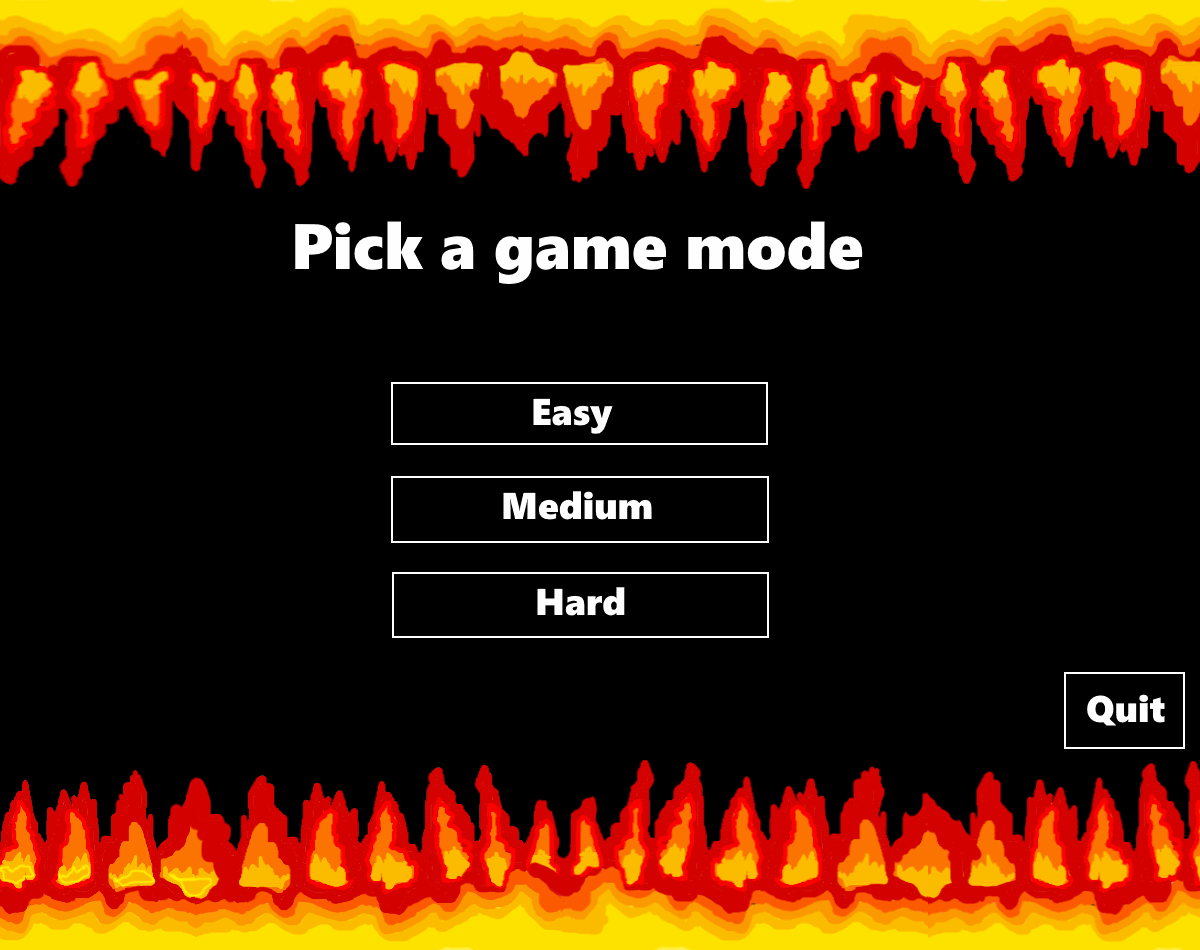
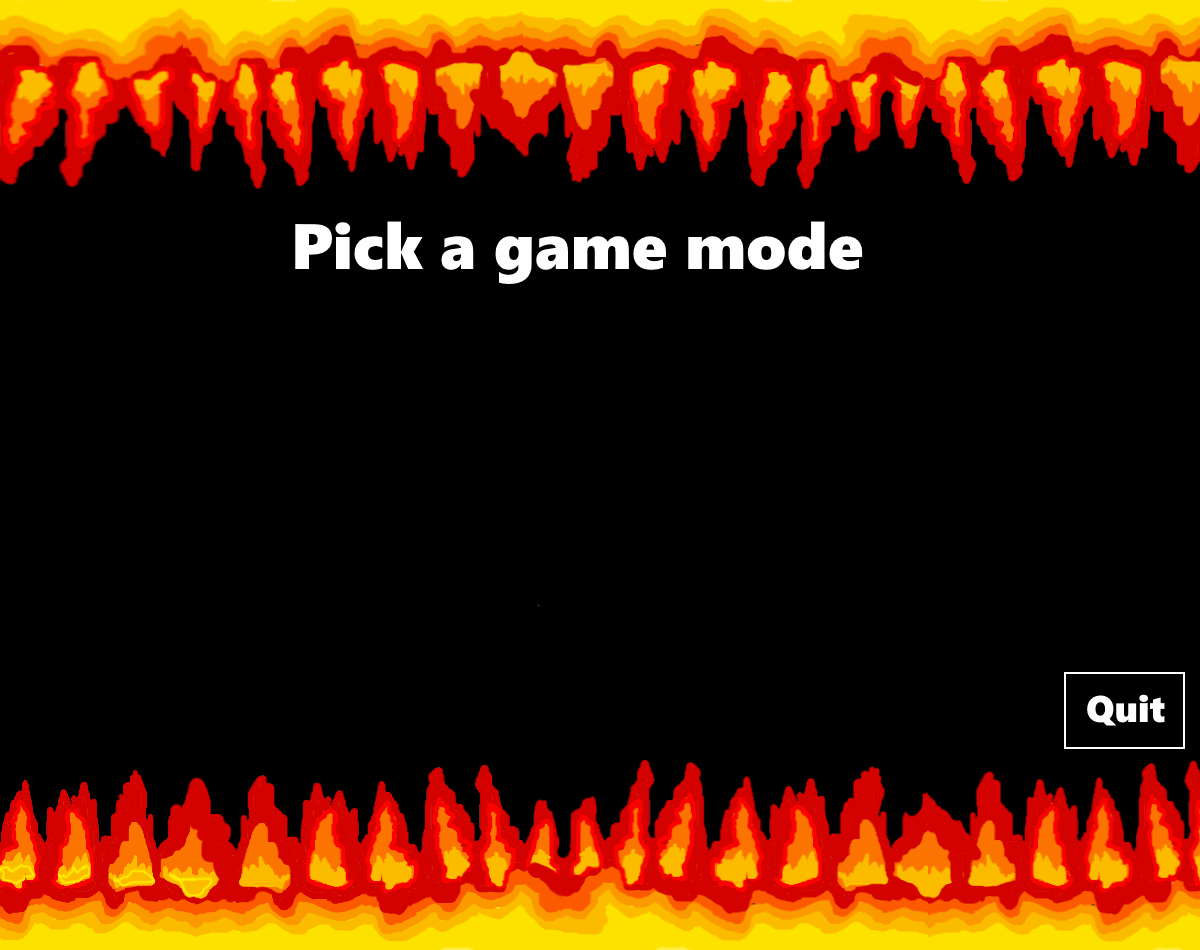
butto9ns

diff --git a/gameBase.py b/gameBase.py
@@ -5,6 +5,7 @@ from Score import *
 from LevelLoad import *
 from Block import *
 from BlackBlock import *
+from Button import *
 pygame.init()
 
 dbgTime = True
@@ -30,6 +31,13 @@ while True:
     startimage = pygame.image.load ("Screens/backroundStartScreen.png")
     startrect = startimage.get_rect()
     
+    
+    easyButton = Button("easy", [width/2, 420])
+    mediumButton = Button("medium", [width/2, 530])
+    hardButton = Button("hard", [width/2, 640])
+    
+    
+    
     ###########START####
     
     while mode == "start":
@@ -53,25 +61,48 @@ while True:
             #print event.type
             if event.type == pygame.QUIT:
                 sys.exit()
-            if event.type == pygame.KEYDOWN:
-                if event.key == pygame.K_e:
+            if event.type == pygame.MOUSEMOTION:
+                if event.buttons[0] == 0:
+                    easyButton.checkHover(event.pos)
+                    mediumButton.checkHover(event.pos)
+                    hardButton.checkHover(event.pos)
+                else:
+                    easyButton.checkClick(event.pos)
+                    mediumButton.checkClick(event.pos)
+                    hardButton.checkClick(event.pos)
+                    
+            if event.type == pygame.MOUSEBUTTONDOWN:
+                print event.button
+                if event.button == 1:
+                    easyButton.checkClick(event.pos)
+                    mediumButton.checkClick(event.pos)
+                    hardButton.checkClick(event.pos)
+            if event.type == pygame.MOUSEBUTTONUP:
+                if easyButton.collidePt(event.pos):
                     level = loadLevel ("Levels/1.lvl")
                     bgimage = pygame.image.load("screens/backroundEasy.png")
                     bgrect = bgimage.get_rect()
                     mode = "game"
-                if event.key == pygame.K_m:
+                if mediumButton.collidePt(event.pos):
                     level = loadLevel ("Levels/2.lvl")
                     bgimage = pygame.image.load("screens/backround1.png")
                     bgrect = bgimage.get_rect()
                     mode = "game"
-                if event.key == pygame.K_h:
+                if hardButton.collidePt(event.pos):
                     level = loadLevel ("Levels/3.lvl")
                     bgimage = pygame.image.load("screens/backround1.png")
                     bgrect = bgimage.get_rect()
                     mode = "game"
                 
+        # ~ screen.blit(easyButton.image, easyButton.rect)
+        # ~ screen.blit(mediumButton.image, mediumButton.rect)
+        # ~ screen.blit(hardButton.image, hardButton.rect)
         
         screen.blit(menuimage, menurect)
+        screen.blit(easyButton.image, easyButton.rect)
+        screen.blit(mediumButton.image, mediumButton.rect)
+        screen.blit(hardButton.image, hardButton.rect)
+        
         pygame.display.flip()
         clock.tick(60)
     
@@ -184,7 +215,7 @@ while True:
                 # ~ mode = "end"
             
         # ~ if rkt2Score > rktScore:
-            # ~ if block in level < str(rkt2.score) - str(rkt.score):
+            # ~ if block in level < str(rkt2.score) - str(rkt.score)
                 # ~ mode = "end"
     
         screen.blit(bgimage, bgrect)

diff --git a/Button.py b/Button.py
@@ -1,0 +1,42 @@
+import pygame, sys, math
+
+class Button():
+    def __init__(self, kind, pos=[0,0]):
+        if kind == "easy":
+            self.basicImage = pygame.image.load("Buttons/easyBasic.png")
+            self.hoverImage = pygame.image.load("Buttons/easyHover.png")
+            self.clickImage = pygame.image.load("Buttons/easyClick.png")
+        if kind == "medium":
+            self.basicImage = pygame.image.load("Buttons/mediumBasic.png")
+            self.hoverImage = pygame.image.load("Buttons/mediumHover.png")
+            self.clickImage = pygame.image.load("Buttons/mediumClick.png")
+        if kind == "hard":
+            self.basicImage = pygame.image.load("Buttons/hardBasic.png")
+            self.hoverImage = pygame.image.load("Buttons/hardHover.png")
+            self.clickImage = pygame.image.load("Buttons/hardClick.png")
+            
+            
+        self.image = self.basicImage
+        self.rect = self.image.get_rect(center=pos)
+        self.radius = (self.rect.width/2 + self.rect.height/2)/2
+        
+    def collidePt(self, pt):
+        if self.rect.right > pt[0]:
+            if self.rect.left < pt[0]:
+                if self.rect.top < pt[1]:
+                    if self.rect.bottom > pt[1]:
+                        return True
+        return False
+        
+    def checkHover(self, pt):
+        if self.collidePt(pt):
+            self.image = self.hoverImage
+        else:
+            self.image = self.basicImage
+            
+    def checkClick(self, pt):
+        if self.collidePt(pt):
+            self.image = self.clickImage
+        else:
+            self.image = self.basicImage
+
